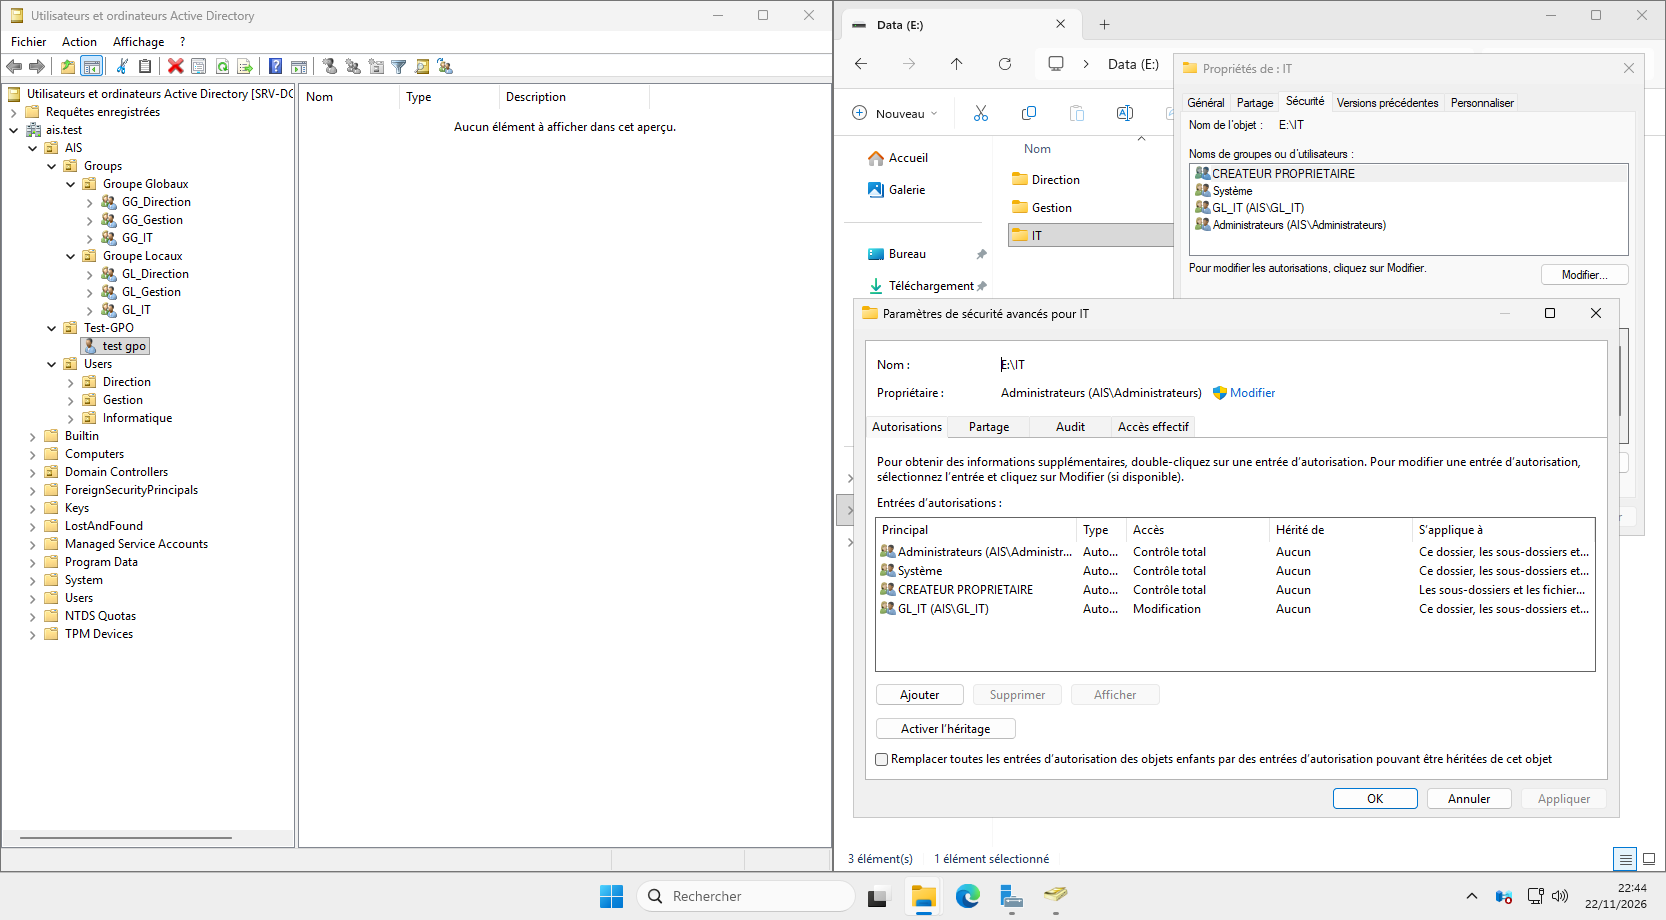
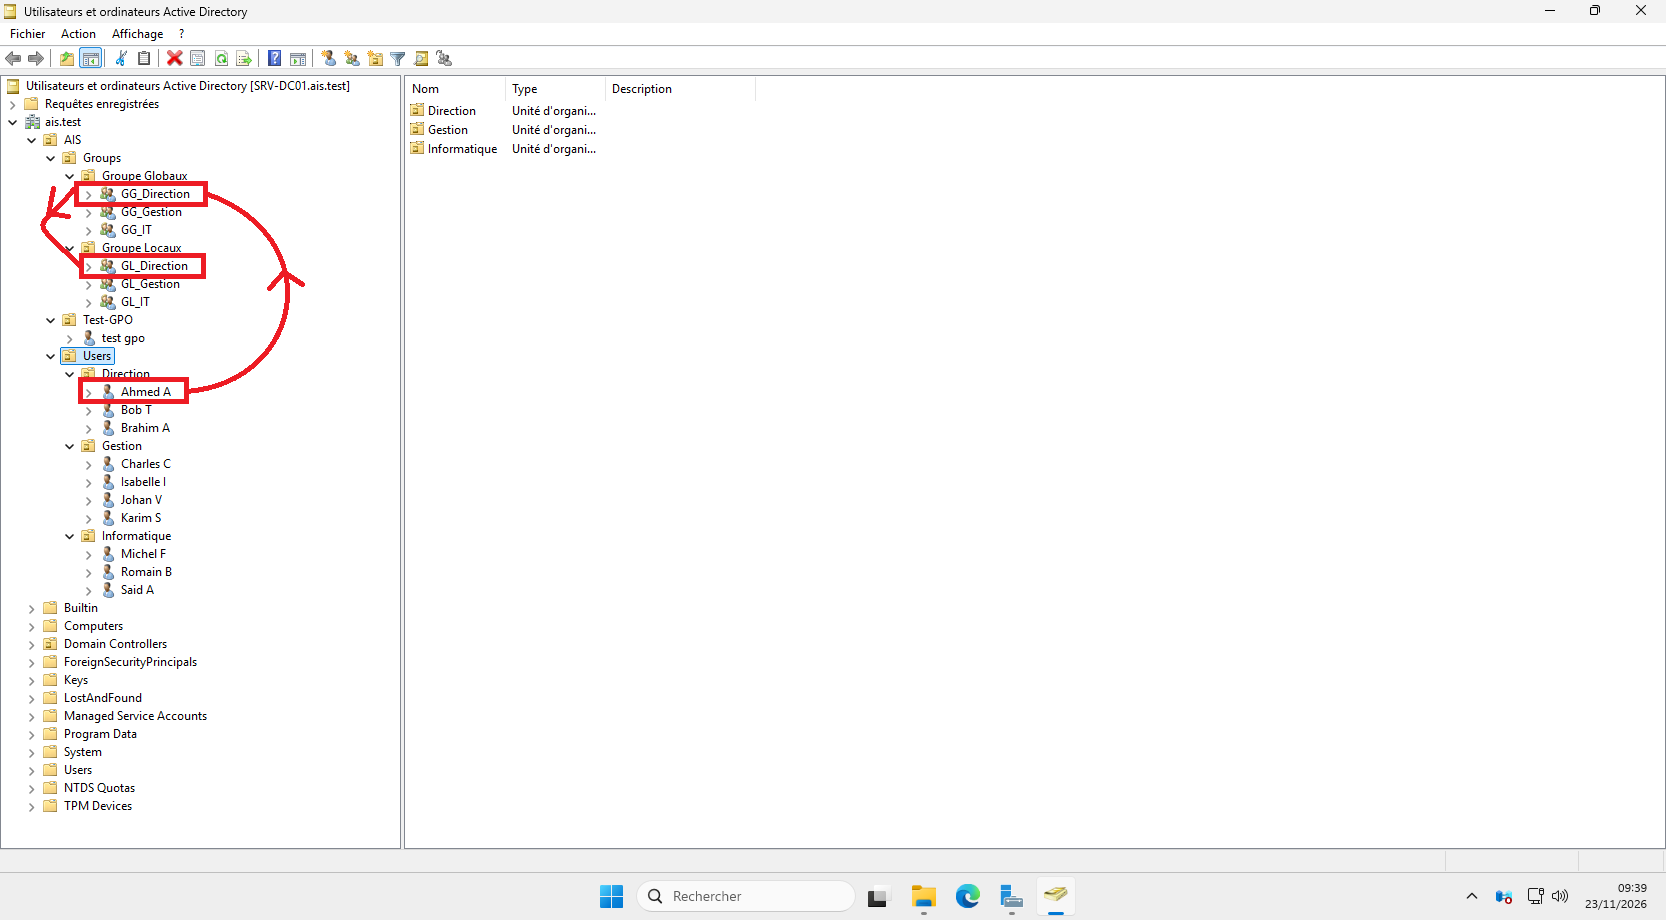
update and add mission 7 to 10

diff --git a/docs/mission10.md b/docs/mission10.md
@@ -2,6 +2,110 @@
     ⚙ Délégation et automatisation
 </h1>
 
+## `> quickstart`
+- Déléguer à l’utilisateur Romain B. le droit de réinitialiser les mots de passe des utilisateurs de l’OU Gestion, sans lui attribuer de privilèges Domain Admin.
+- Tester la délégation avec un compte adapté.
+- Créer ou adapter un script PowerShell permettant de créer un utilisateur Active Directory et de le placer directement dans l’OU correspondant à son service.
+- Commenter les principales étapes du script afin d’expliquer son fonctionnement.
+
+## `> control_point`
+### 1. Délégation avec un compte adapté  
+![srv-dc01_delegation](/screenshots/srv-dc01_delegation.png)  
+![srv-dc01_test-delegation](/screenshots/srv-dc01_test-delegation.png)
+
+```powershell
+# Variable pour contenir les identifiants de b.romain
+$Creds_bromain = Get-Credential -UserName "ais\b.romain" -Message "Mot de passe pour le compte b.romain"
+
+# Réinitialisation du mot de passe de test.delegation avec les identifications de b.romain
+Set-ADAccountPassword "test.delegation" -Reset -NewPassword (ConvertTo-SecureString -AsPlainText "Azertyuiop2*" -Force) -Credential $Creds_bromain -Verbose
+
+# Test de création d'un utilisateur dans Gestion avec les identifiants de b.romain alors qu'il a pas les droits.
+New-ADUser -Name "testdelegation2" -Path "OU=Gestion,OU=Users,OU=AIS,DC=ais,DC=test" -Credential $Creds_bromain
+
+# Variable pour contenir les identifiants de test.delegation avec le nouveau mot de passe
+$Creds_test = Get-Credential -UserName "ais\test.delegation" -Message "Test du nouveau mot de passe"
+
+# Afficher l'utilisateur test.delegation avec les derniers identifiants en date
+Get-ADUser -Identity "test.delegation" -Credential $Creds_test
+```
+
+### 2. Script PowerShell  
+![srv-dc01_scriptAD](/screenshots/srv-dc01_scriptAD.png)
+
+```powershell
+
+# ============================================
+# SCRIPT : Creation utilisateur Active Directory
+# Domaine : ais.test
+# Ce script est utilisable une structure AD bien précise
+# ============================================
+
+# 1. Informations utilisateur
+
+$Prenom = Read-Host "Saisir le prenom"
+$Nom = Read-Host "Saisir le nom"
+$Name = "$Prenom $Nom"
+
+# 2. Creation de l'identifiant
+
+#$Identifiant = ($Prenom.Substring(0,1) + "." + $Nom).ToLower()
+# Substring() sert à extraire une portion de texte, dans mon cas la première lettre du prénom.
+$Identifiant = ($Nom.Substring(0,1) + "." + $Prenom).ToLower()
+# Substring() sert à extraire une portion de texte, dans mon cas la première lettre du nom.
+
+# 3. Choix du service
+
+Write-Host ""
+Write-Host "Choisir le service :"
+Write-Host "1 - Direction"
+Write-Host "2 - Gestion"
+Write-Host "3 - Informatique"
+
+$Choix = Read-Host "Votre choix"
+
+switch ($Choix) {
+    "1" { $Service = "Direction" }
+    "2" { $Service = "Gestion" }
+    "3" { $Service = "Informatique" }
+    default {
+        Write-Host "Choix invalide. Arret du script." -ForegroundColor Red
+        exit
+    }
+}
+
+# 4. Definition de l'OU de destination
+
+$OU = "OU=$Service,OU=Users,OU=AIS,DC=ais,DC=test"
+
+# 5. Saisie du mot de passe
+
+$MotDePasse = Read-Host "Saisir le mot de passe initial" -AsSecureString
+
+# 6. Creation de l'utilisateur
+
+New-ADUser `
+    -Name "$Name" `
+    -GivenName $Prenom `
+    -Surname $Nom `
+    -SamAccountName $Identifiant `
+    -UserPrincipalName "$Identifiant@ais.test" `
+    -Path $OU `
+    -AccountPassword $MotDePasse `
+    -Enabled $true `
+    -ChangePasswordAtLogon $true
+
+# 7. Confirmation
+
+Write-Host ""
+Write-Host "Utilisateur $Identifiant cree dans le service $Service." -ForegroundColor Green
+
+```
+
+## `> sources`
+- [IT-Connect : La délégation de contrôle Active Directory](https://www.it-connect.fr/la-delegation-de-controle-active-directory/)
+
+
 ---
 
 <p align="center">  

diff --git a/docs/mission8.md b/docs/mission8.md
@@ -2,6 +2,38 @@
     📑 Déployer les stratégies de groupe
 </h1>
 
+## `> quickstart`
+- Mettre en œuvre ces cinq stratégies :
+
+| GPO                       | Objectif                                                                              | Cible / Remarque                                                  |
+| ------------------------- | ------------------------------------------------------------------------------------- | ----------------------------------------------------------------- |
+| Verrouillage automatique  | Verrouiller la session après 10 minutes d'inactivité                                  | Utilisateurs du domaine                                           |
+| Politique de mot de passe | Longueur minimale de 12 caractères, complexité activée, historique de 5 mots de passe | Politique appliquée au niveau du domaine                          |
+| Panneau de configuration  | Interdire l'accès au Panneau de configuration et aux Paramètres Windows               | Uniquement l'OU Test-GPO                                          |
+| Lecteurs réseau           | Mapper automatiquement les lecteurs correspondant au service de l'utilisateur         | Utiliser les groupes et/ou les préférences de stratégie de groupe |
+| Fond d'écran entreprise   | Appliquer un fond d'écran commun depuis un emplacement réseau accessible en lecture   | Tester avec au moins un utilisateur du domaine                    |
+
+## `> control_point`
+### 1. Verrouillage automatique  
+![srv-dc01_verrouillage-écran](/screenshots/srv-dc01_verrouillage-écran.png)
+
+### 2. Politique de mot de passe
+![srv-dc01_politique-motdepasse](/screenshots/srv-dc01_politique-motdepasse.png)
+
+### 3. Panneau de configuration
+![srv-dc01_configpanel-parameters](/screenshots/srv-dc01-configpannel-parameters.png)
+
+### 4. Lecteurs réseau (*identique pour chaque dossier*)
+![srv-dc01_lecteur-reseau](/screenshots/srv-dc01_lecteur-reseau.png)
+![cli-w11-01_lecteur-reseau](/screenshots/cli-w11-01_lecteur-reseau.png)
+
+### 5. Fond d'écran entreprise  
+![srv-dc01_fond-écran](/screenshots/srv-dc01_fond-écran.png)
+![cli-w11-01_fond-écran](/screenshots/cli-w11-01_fond-écran.png)
+
+### 6. Test-GPO
+![cli-w11-01_test-gpo](/screenshots/cli-w11-01_test-gpo.png)
+
 ---
 
 <p align="center">  

diff --git a/docs/mission7.md b/docs/mission7.md
@@ -2,6 +2,25 @@
     📁 Mettre en place les ressources de fichiers
 </h1>
 
+## `> quickstart`
+- Définir les permissions de partage et NTFS cohérentes respectant l'**AGDLP**.
+- Le groupe `GL_IT` doit disposer des droits nécessaires pour administrer les ressources de fichiers.
+- Installation de FSRM et limitation de chaque répertoire à **200 Mo**.
+- Générer un avertissement lorsque l'utilisation atteint **160 Mo**.
+
+## `> control_point`
+### 1. Permissions de partage et NTFS pour *Direction*  
+![srv-dc01_permission-direction](/screenshots/srv-dc01_permission-direction.png)
+
+### 2. Permissions de partage et NTFS pour *Gestion*  
+![srv-dc01_permission-gestion](/screenshots/srv-dc01_permission-gestion.png)
+
+### 3. Permissions de partage et NTFS pour *Informatique*  
+![srv-dc01_permission-informatique](/screenshots/srv-dc01_permission-informatique.png)
+
+### 4. Application du rôle FSRM avec limitation et avertissement sur chaque répertoire
+![srv-dc01_fsrm](/screenshots/srv-dc01_fsrm.png)
+
 ---
 
 <p align="center">  

diff --git a/docs/mission9.md b/docs/mission9.md
@@ -2,6 +2,27 @@
     🖧 Donner un accès Internet au LAN
 </h1>
 
+## `> quickstart`
+- Installer et configurer le service de routage/NAT Windows sur **SRV-RTR01**.
+- Tester l'accès Internet depuis un serveur et un client.
+- Tester la résolution DNS externe.
+
+## `> control_point`
+### 1. Service de routage/NAT Windows sur **SRV-RTR01**  
+![srv-rtr01_routage](/screenshots/srv-rtr01_routage.png)
+
+### 2. Accès internet depuis **SRV-DC01**  
+![srv-dc01_acces-internet](/screenshots/srv-dc01_acces-internet.png)
+
+### 3. Accès internet depuis **CLI-W11-01**  
+![cli-w11-01_acces-internet](/screenshots/cli-w11-01_acces-internet.png)
+
+### 4. Résolution DNS vers Internet depuis **SRV-DC01**
+![srv-dc01_dns-wan](/screenshots/srv-dc01_dns-wan.png)
+
+## `> sources`
+- Source : [IT-Connect : Comment configurer Windows Server 2025 comme routeur avec du NAT ?](https://www.it-connect.fr/comment-configurer-windows-server-2025-comme-routeur-avec-nat/)
+
 ---
 
 <p align="center">  

diff --git a/docs/mission5.md b/docs/mission5.md
@@ -8,14 +8,10 @@
 - Mettre en œuvre la méthode AGDLP pour organiser l'attribution des droits d'accès aux ressources partagées.
 
 ## `> control_point`
-### 1. Configuration AGDLP sur **SRV-DC01/GL_IT**  
+### 1. Configuration AGDLP sur **SRV-DC01**  
 ![srv-dc01_agdlp](/screenshots/srv-dc01_agdlp.png)
 
-### 2. Vérification AGDLP sur **CLI-W11-01/GL_Direction**
-![cli-w11-01_agdlp](/screenshots/cli-w11-01_agdlp.png)
-
-### 2. Vérification AGDLP sur **CLI-W11-02/GL_Gestion**
-![cli-w11-02_agdlp](/screenshots/cli-w11-02_agdlp.png)
+> **Les permissions (*P de AGDLP*) se feront durant la [mission 7](/docs/mission7.md).**
 
 ## `> F.A.Q`
 - **_C'est quoi l'`AGDLP` ?_**

diff --git a/docs/mission3.md b/docs/mission3.md
@@ -17,12 +17,6 @@
 ### 3. Test de résolution de nom depuis **SRV-DC02**  
 ![srv-dc02_dns-test](/screenshots/srv-dc02_test-dns.png)
 
-### 4. Résolution DNS vers Internet depuis **SRV-DC01**
-
-- Source : [IT-Connect : Comment configurer Windows Server 2025 comme routeur avec du NAT ?](https://www.it-connect.fr/comment-configurer-windows-server-2025-comme-routeur-avec-nat/)
-
-![srv-dc01_dns-wan](/screenshots/srv-dc01_dns-wan.png)
-
 ---
 
 <p align="center">  
